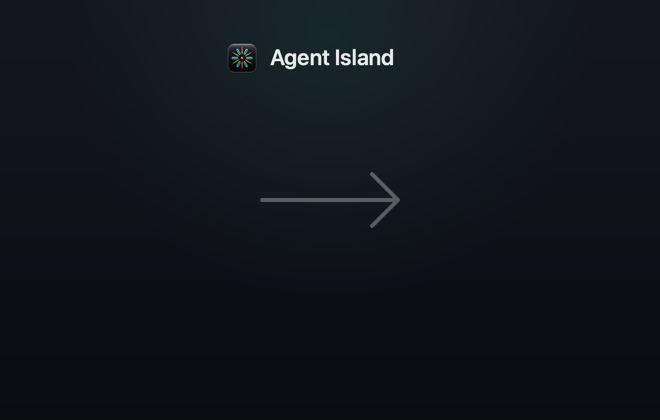
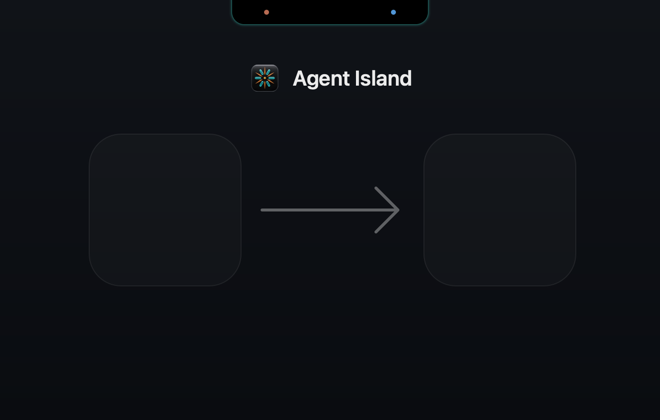
feat: DMG installer art v2 — island silhouette on the top edge, drop wells, centered wordmark
The composition tells the product story: the island hangs from the window's top edge the way the app hangs from the notch (teal rim light, one dot per provider), two quiet wells anchor app → Applications, and the logo+wordmark center as one group (was: off-center pair over a plain gradient).

Changed region(s): [[0.3333, 0.0929, 0.6364, 0.2167], [0.3333, 0.0, 0.6667, 0.0619], [0.3939, 0.4024, 0.6061, 0.5571]]

diff --git a/packaging/dmg/gen-assets.swift b/packaging/dmg/gen-assets.swift
@@ -1,8 +1,8 @@
 import AppKit
 
 let teal = NSColor(red: 0x20/255.0, green: 0xC0/255.0, blue: 0xB0/255.0, alpha: 1)
-let orange = NSColor(red: 0xDF/255.0, green: 0x8A/255.0, blue: 0x50/255.0, alpha: 1)
-let gold = NSColor(red: 0xE3/255.0, green: 0xB3/255.0, blue: 0x4F/255.0, alpha: 1)
+let claudeOrange = NSColor(red: 0xCC/255.0, green: 0x78/255.0, blue: 0x5C/255.0, alpha: 1)
+let codexBlue = NSColor(red: 0x5A/255.0, green: 0xA8/255.0, blue: 0xF0/255.0, alpha: 1)
 
 func savePNG(_ image: NSImage, to path: String, pixelsWide: Int, pixelsHigh: Int) {
     let rep = NSBitmapImageRep(bitmapDataPlanes: nil, pixelsWide: pixelsWide, pixelsHigh: pixelsHigh,
@@ -16,42 +16,93 @@ func savePNG(_ image: NSImage, to path: String, pixelsWide: Int, pixelsHigh: Int
     try! rep.representation(using: .png, properties: [:])!.write(to: URL(fileURLWithPath: path))
 }
 
-// ---------- 2) DMG background (660×420 @1x/@2x) ----------
+// ---------- DMG background (660×420 @1x/@2x) ----------
+//
+// The composition IS the product story: the island silhouette hangs from the
+// top edge exactly like the app hangs from the notch, with its two provider
+// dots and a whisper of the brand-teal glow. Below, two quiet wells anchor
+// the drag: app on the left, Applications on the right.
 func drawBackground(scale: CGFloat) -> NSImage {
     let w: CGFloat = 660, h: CGFloat = 420
     let img = NSImage(size: CGSize(width: w, height: h))
     img.lockFocus()
+
+    // Base coat — near-black, one soft vertical step (no showy gradient).
     NSGradient(colors: [
-        NSColor(red: 0x14/255.0, green: 0x17/255.0, blue: 0x1E/255.0, alpha: 1),
+        NSColor(red: 0x10/255.0, green: 0x13/255.0, blue: 0x18/255.0, alpha: 1),
         NSColor(red: 0x0A/255.0, green: 0x0C/255.0, blue: 0x10/255.0, alpha: 1),
     ])!.draw(in: CGRect(x: 0, y: 0, width: w, height: h), angle: -90)
-    // Faint teal aura behind the wordmark.
-    NSGradient(colors: [teal.withAlphaComponent(0.10), teal.withAlphaComponent(0.0)])!
-        .draw(fromCenter: CGPoint(x: w / 2, y: h - 40), radius: 0,
-              toCenter: CGPoint(x: w / 2, y: h - 40), radius: 260, options: [])
-    // Real logo asset + wordmark, top center — the mark is the brand,
-    // never a redrawn approximation.
+
+    // Island silhouette on the top edge (flat bottom corners, like the
+    // hardware notch), brand-teal rim light beneath it.
+    let islandW: CGFloat = 196, islandH: CGFloat = 24, r: CGFloat = 12
+    let ix = w / 2 - islandW / 2, iy = h - islandH
+    let island = NSBezierPath()
+    island.move(to: CGPoint(x: ix, y: h))
+    island.line(to: CGPoint(x: ix, y: iy + r))
+    island.appendArc(withCenter: CGPoint(x: ix + r, y: iy + r), radius: r,
+                     startAngle: 180, endAngle: 270, clockwise: false)
+    island.line(to: CGPoint(x: ix + islandW - r, y: iy))
+    island.appendArc(withCenter: CGPoint(x: ix + islandW - r, y: iy + r), radius: r,
+                     startAngle: 270, endAngle: 360, clockwise: false)
+    island.line(to: CGPoint(x: ix + islandW, y: h))
+    island.close()
+    // Soft teal glow under the silhouette: stacked strokes, fading out.
+    for (inset, alpha) in [(CGFloat(0), 0.28), (1.5, 0.14), (3.0, 0.07), (5.0, 0.035)] {
+        let glow = island.copy() as! NSBezierPath
+        glow.lineWidth = 1 + inset
+        teal.withAlphaComponent(alpha).setStroke()
+        glow.stroke()
+    }
+    NSColor.black.setFill()
+    island.fill()
+    // The two provider marks, reduced to their essence: one dot each.
+    claudeOrange.withAlphaComponent(0.9).setFill()
+    NSBezierPath(ovalIn: CGRect(x: w / 2 - 66, y: iy + islandH / 2 - 2.5, width: 5, height: 5)).fill()
+    codexBlue.withAlphaComponent(0.9).setFill()
+    NSBezierPath(ovalIn: CGRect(x: w / 2 + 61, y: iy + islandH / 2 - 2.5, width: 5, height: 5)).fill()
+
+    // Wordmark row — real logo asset + name, centered as ONE group.
+    let title = NSAttributedString(string: "Agent Island", attributes: [
+        .font: NSFont.systemFont(ofSize: 21, weight: .semibold),
+        .foregroundColor: NSColor(white: 1, alpha: 0.92),
+    ])
+    let logoSide: CGFloat = 34, gap: CGFloat = 11
+    let titleSize = title.size()
+    let groupW = logoSide + gap + titleSize.width
+    let groupX = w / 2 - groupW / 2
+    let rowCenterY = h - 78
     if let logo = NSImage(contentsOfFile: "Assets/agent-island-logo.png") {
-        logo.draw(in: CGRect(x: w / 2 - 106, y: h - 76, width: 36, height: 36),
+        logo.draw(in: CGRect(x: groupX, y: rowCenterY - logoSide / 2, width: logoSide, height: logoSide),
                   from: .zero, operation: .sourceOver, fraction: 1.0)
     }
-    let title = NSAttributedString(string: "Agent Island", attributes: [
-        .font: NSFont.systemFont(ofSize: 22, weight: .semibold),
-        .foregroundColor: NSColor(white: 1, alpha: 0.90),
-    ])
-    title.draw(at: CGPoint(x: w / 2 - 60, y: h - 70))
-    // Arrow between the two icon slots (centers x=165 / x=500, y_top=200 → y_bottom=220).
+    title.draw(at: CGPoint(x: groupX + logoSide + gap, y: rowCenterY - titleSize.height / 2))
+
+    // Drop wells under both icon slots (settings.py: centers x=165 / x=500,
+    // y=210 from top → bottom-origin y=210). A faint plate, not a button.
+    for cx in [CGFloat(165), 500] {
+        let well = NSBezierPath(roundedRect: CGRect(x: cx - 76, y: 210 - 76, width: 152, height: 152),
+                                xRadius: 32, yRadius: 32)
+        NSColor(white: 1, alpha: 0.025).setFill()
+        well.fill()
+        well.lineWidth = 1
+        NSColor(white: 1, alpha: 0.07).setStroke()
+        well.stroke()
+    }
+
+    // Arrow between the wells — thin, rounded, quiet.
     let arrow = NSBezierPath()
-    arrow.lineWidth = 4
+    arrow.lineWidth = 3
     arrow.lineCapStyle = .round
     arrow.lineJoinStyle = .round
-    arrow.move(to: CGPoint(x: 262, y: 220))
-    arrow.line(to: CGPoint(x: 398, y: 220))
-    arrow.move(to: CGPoint(x: 372, y: 246))
-    arrow.line(to: CGPoint(x: 398, y: 220))
-    arrow.line(to: CGPoint(x: 372, y: 194))
-    NSColor(white: 1, alpha: 0.30).setStroke()
+    arrow.move(to: CGPoint(x: 262, y: 210))
+    arrow.line(to: CGPoint(x: 398, y: 210))
+    arrow.move(to: CGPoint(x: 376, y: 232))
+    arrow.line(to: CGPoint(x: 398, y: 210))
+    arrow.line(to: CGPoint(x: 376, y: 188))
+    NSColor(white: 1, alpha: 0.34).setStroke()
     arrow.stroke()
+
     img.unlockFocus()
     return img
 }
